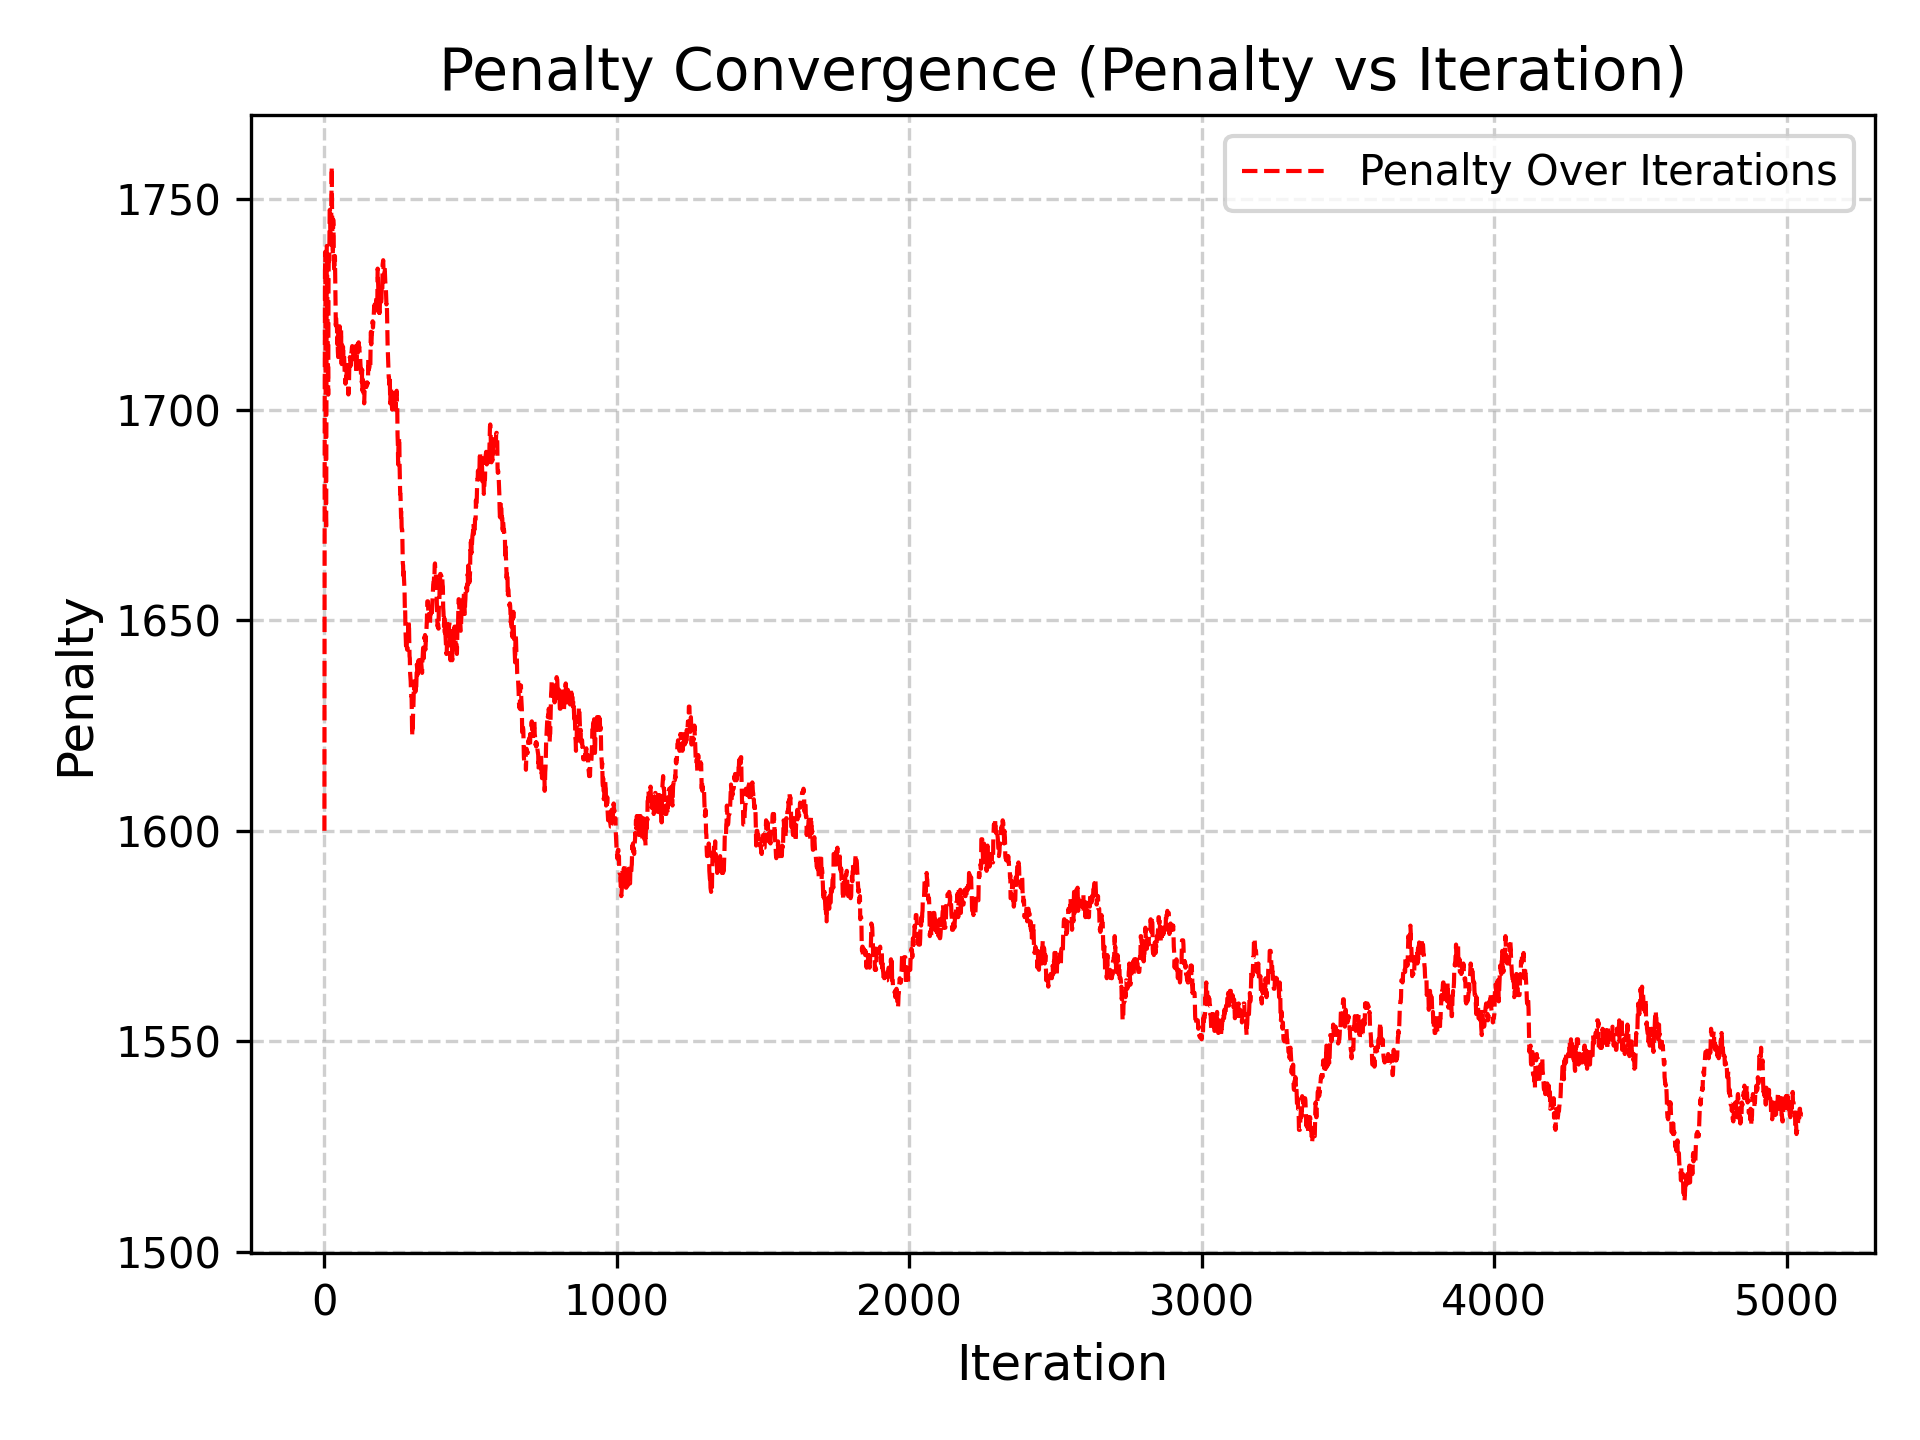
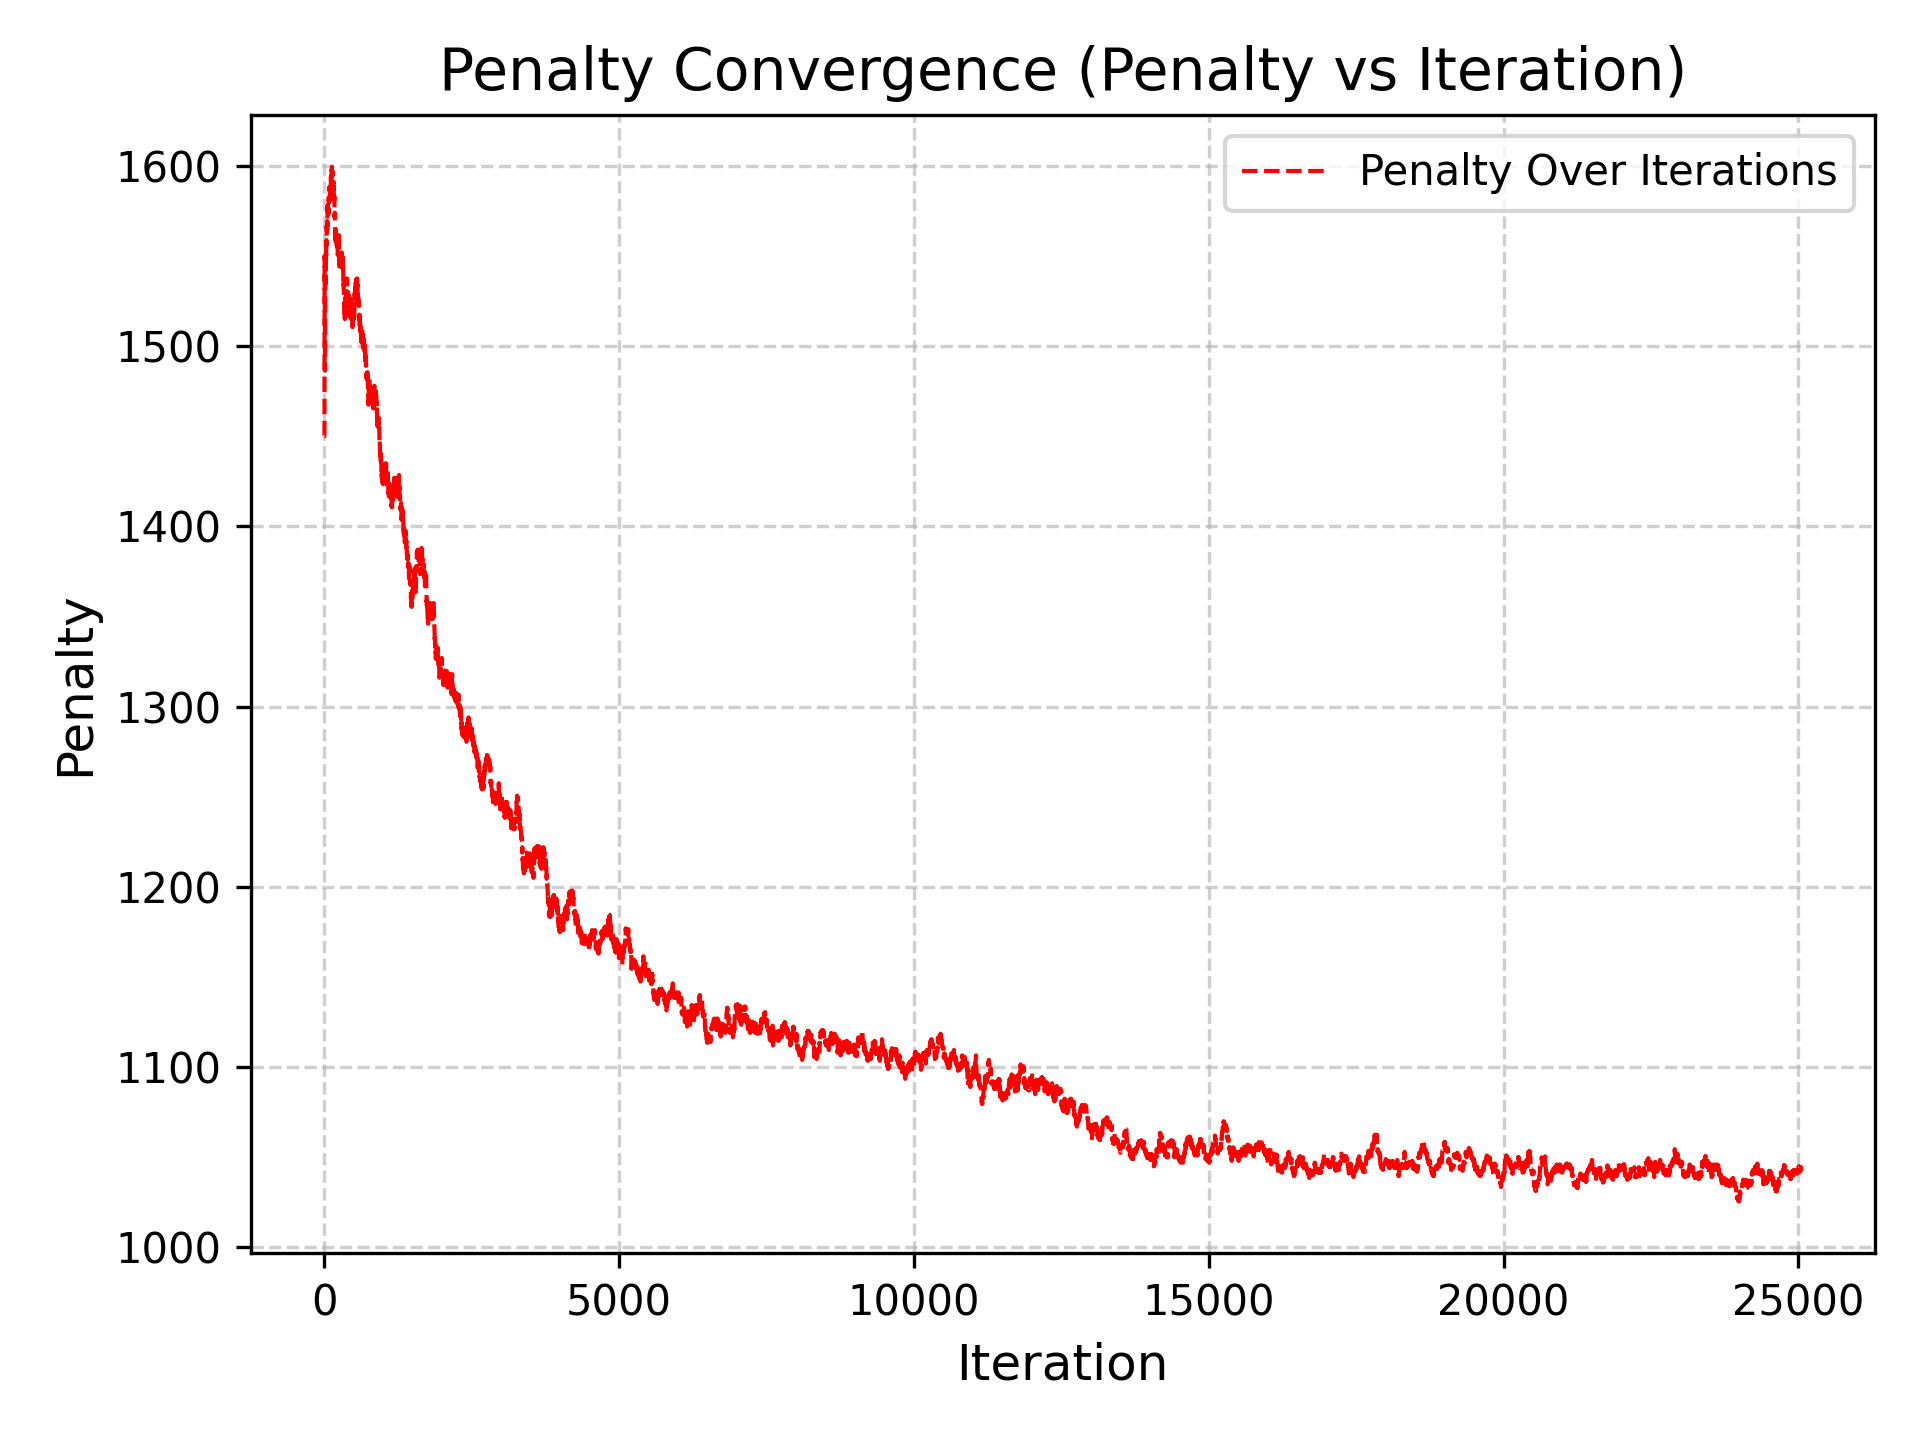
project

diff --git a/pso.py b/pso.py
@@ -116,9 +116,7 @@ def objective_function(x, num_classes, num_instructors_bct, num_instructors_bei,
                 subject_day_count[(day, subject)] = 1
 
             # Check for overlap with labs
-            if subject in labs_bct or subject in labs_bei:
-                if period % 4 != 0:
-                    penalty += 100
+
 
     return penalty
 
@@ -167,8 +165,12 @@ def generate_timetable(num_classes, num_instructors_bct, num_instructors_bei, su
     xopt, fopt = pso(
         custom_objective_function, lb, ub,
         args=(num_classes, num_instructors_bct, num_instructors_bei, num_periods, labs_bct, labs_bei, instructor_type_bct, instructor_type_bei, subjects_bct, subjects_bei),
-        swarmsize=50, maxiter=100
-    )
+        swarmsize=50, maxiter=500,
+        omega=0.5,   # Set the inertia weight (w1)
+        phip=1.5,    # Set the cognitive coefficient (c1)
+        phig=1.5    # Set the social coefficient (c2)
+)
+    
 
 
     # Penalty over iterations (convergence plot)
